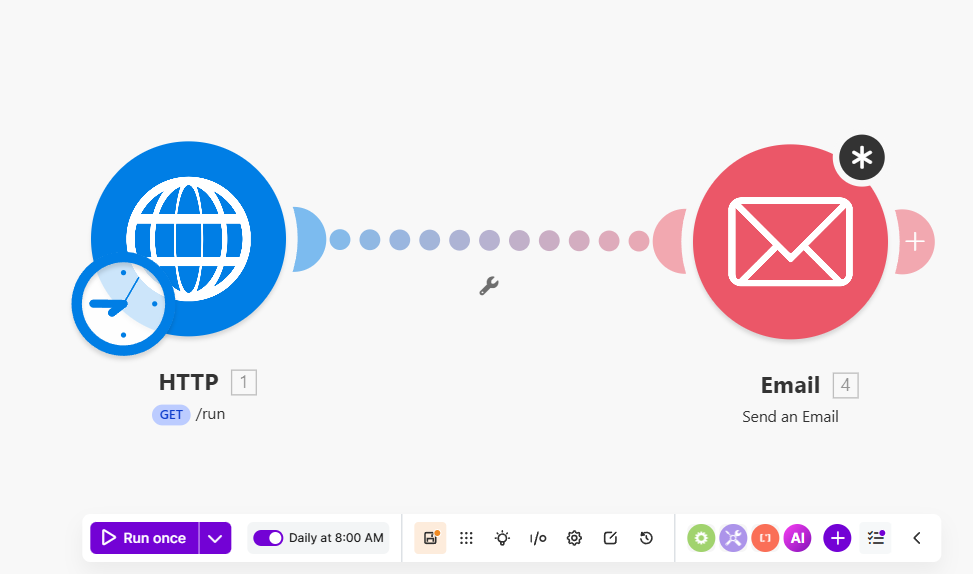
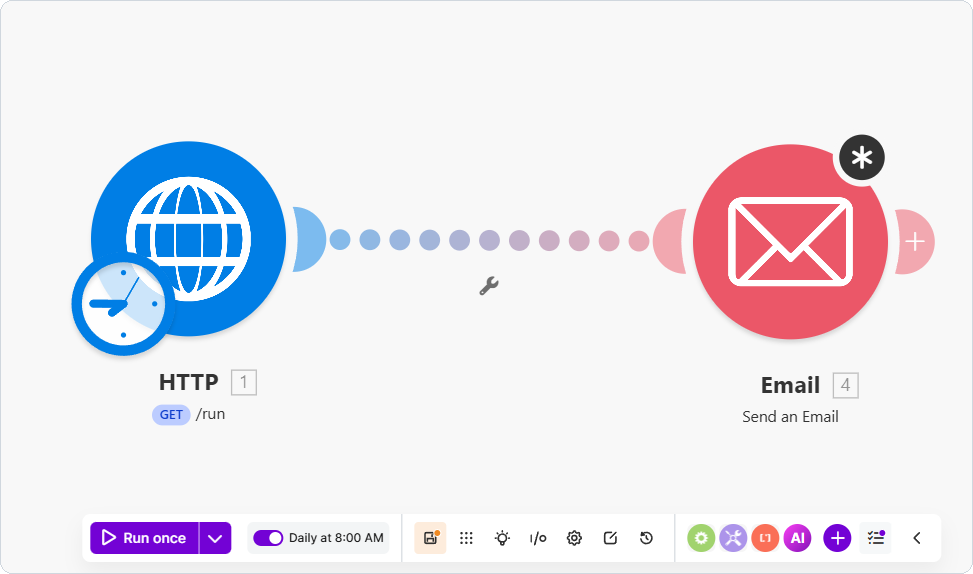
Restructure the README body into the canonical section order (#7)
* Add theme-aware banner, shields badges, and dashboard hero crop.

Replace the H1 with a picture banner, switch badges to shields.io
flat style, add a four-link nav and short lead, and crop the
dashboard screenshot to the first finding so the top of the page
is no longer the full-height capture.

* Restructure the README body into the canonical section order.

Move example output under the top block, fold JSON and the full
dashboard into details, drop mermaid style fills, and group
quickstart, tests, deploy, and layout so the page scans in
both GitHub themes.

---------

Changed region(s): [[0.9866, 0.9774, 1.0, 1.0]]

diff --git a/README.md b/README.md
@@ -25,94 +25,11 @@ Two Claude agents review a synthetic 31-store network and write a daily ops brie
 > [!NOTE]
 > The dashboard is rendering the illustrative example briefing below, not a live Claude run. A live-run capture will replace it.
 
-## The Problem
-
-Multi-site retail GMs are drowning in dashboards. Every store generates daily revenue, channel mix, category performance, and staffing data—but dashboards don't prioritise. By the time anyone notices a store has been underperforming for a week, it's late.
-
-This system solves that by:
-1. **Investigating autonomously** — an Analyst agent queries the data and identifies what matters
-2. **Writing for humans** — a Writer agent produces a 60-second scannable briefing
-3. **Running daily** — triggered by a webhook, delivers the briefing where leadership reads it
-
-## How it works
-
-```mermaid
-flowchart TB
-    subgraph Trigger
-        MAKE[Make.com Scheduler]
-        WEBHOOK[Webhook /run]
-    end
-
-    subgraph "Agent System"
-        subgraph "Analyst Agent"
-            ANALYST[Claude Sonnet 5.5]
-            TOOLS[(7 SQL Tools)]
-            ANALYST <-->|tool_use| TOOLS
-        end
-        
-        subgraph "Writer Agent"
-            WRITER[Claude Sonnet 5.5]
-        end
-        
-        ANALYST -->|Structured JSON findings| WRITER
-    end
-
-    subgraph "Data Layer"
-        SQLITE[(SQLite DB)]
-        TOOLS --> SQLITE
-    end
-
-    subgraph Output
-        DASHBOARD[Web Dashboard]
-        JSON[JSON API]
-        SLACK[Slack / Email]
-    end
-
-    MAKE --> WEBHOOK
-    WRITER --> DASHBOARD
-    WRITER --> JSON
-    JSON -.->|via Make.com| SLACK
-
-    style ANALYST fill:#f9f,stroke:#333
-    style WRITER fill:#9ff,stroke:#333
-```
-
-### Two-Agent Design
-
-| Agent | Role | Tools | Output |
-|-------|------|-------|--------|
-| **Analyst** | Investigation | 7 SQL-backed tools | Structured JSON: headline, 3-6 findings with severity/evidence/actions, network stats |
-| **Writer** | Communication | None | Markdown briefing formatted for 60-second scanning |
-
-The agents have separate concerns by design:
-- The **Analyst** decides *what matters*. It has access to all the data tools and must prioritise ruthlessly—if everything looks fine, it should say so with 1-2 findings.
-- The **Writer** decides *how to say it*. It has no tools, only the Analyst's findings. Its job is voice, formatting, and scannability.
-
-This separation means the Analyst can focus on investigation without worrying about prose, and the Writer can focus on communication without worrying about data access.
-
-Both agents call `claude-sonnet-5-5`, the current generally available Sonnet ID on the [Claude API](https://docs.anthropic.com/en/docs/about-claude/models/overview).
-
-## Tools
-
-The Analyst has 7 tools that query a SQLite database:
-
-| Tool | Purpose |
-|------|---------|
-| `list_stores` | Get all 31 stores with metadata (used to resolve names to IDs) |
-| `network_summary` | High-level view: total revenue vs target, breakdowns by tier/region/channel |
-| `store_performance` | Per-store actual vs target for a period, sorted worst-first |
-| `store_trend` | Daily series for one store—distinguishes noise from sustained issues |
-| `category_performance` | Revenue by product category with week-over-week comparison |
-| `top_products` | Top sellers by revenue, filterable by category |
-| `channel_comparison` | Sales by channel (in-store, kiosk, web, app, delivery) |
-
-Tool descriptions are carefully written to guide the agent's routing decisions. For example, `network_summary` is described as "usually the first call to make" and `store_trend` is described as useful "to investigate whether a store's underperformance is a one-off or a sustained trend."
-
 ## Example output
 
 The numbers below are last-7-day aggregates from the **seeded synthetic dataset** (week ending 30 April 2026). They match `network_summary`, `store_performance`, `store_trend`, and `category_performance` on `data/pos.db` after `python setup_data.py`. Currency is rounded to the nearest dollar (Westbridge actual is $11,969.50; Northgate actual is $6,661.50). The prose is an **illustrative Writer-style briefing**, not a live Claude transcript.
 
-### Briefing (Writer Output)
+### Briefing (Writer output)
 
 ```markdown
 *Daily Ops Briefing - Thursday 30 April 2026*
@@ -141,7 +58,8 @@ No action needed.
 27 of 31 stores above target. Network revenue $474,440 vs target $430,000 (+10.3%).
 ```
 
-### Analyst Findings (Structured JSON)
+<details>
+<summary><b>Analyst findings (structured JSON)</b></summary>
 
 ```json
 {
@@ -172,6 +90,93 @@ No action needed.
 }
 ```
 
+</details>
+
+<details>
+<summary><b>Full dashboard screenshot</b></summary>
+
+<p align="center">
+  <img alt="Dashboard with illustrative example briefing (not a live Claude run)" src="assets/dashboard.png" width="720">
+</p>
+
+</details>
+
+## Problem
+
+Multi-site retail GMs are drowning in dashboards. Every store generates daily revenue, channel mix, category performance, and staffing data—but dashboards don't prioritise. By the time anyone notices a store has been underperforming for a week, it's late.
+
+- An Analyst agent queries the data and decides what matters.
+- A Writer agent turns the findings into a briefing someone can read in a minute.
+- A webhook runs it daily and delivers it where people already read.
+
+## How it works
+
+```mermaid
+flowchart TB
+    subgraph Trigger
+        MAKE[Make.com Scheduler]
+        WEBHOOK[Webhook /run]
+    end
+
+    subgraph "Agent System"
+        subgraph "Analyst Agent"
+            ANALYST[Analyst · Claude Sonnet 5.5]
+            TOOLS[(7 SQL Tools)]
+            ANALYST <-->|tool_use| TOOLS
+        end
+        
+        subgraph "Writer Agent"
+            WRITER[Writer · Claude Sonnet 5.5]
+        end
+        
+        ANALYST -->|Structured JSON findings| WRITER
+    end
+
+    subgraph "Data Layer"
+        SQLITE[(SQLite DB)]
+        TOOLS --> SQLITE
+    end
+
+    subgraph Output
+        DASHBOARD[Web Dashboard]
+        JSON[JSON API]
+        SLACK[Slack / Email]
+    end
+
+    MAKE --> WEBHOOK
+    WRITER --> DASHBOARD
+    WRITER --> JSON
+    JSON -.->|via Make.com| SLACK
+```
+
+### Two agents
+
+| Agent | Role | Tools | Output |
+|-------|------|-------|--------|
+| **Analyst** | Investigation | 7 SQL-backed tools | Structured JSON: headline, 3-6 findings with severity/evidence/actions, network stats |
+| **Writer** | Communication | None | Markdown briefing formatted for 60-second scanning |
+
+- The **Analyst** decides *what matters*: it has the data tools and must prioritise (1–2 findings if all is well).
+- The **Writer** decides *how to say it*: no tools, only the Analyst's JSON.
+
+Both agents call `claude-sonnet-5-5`, the current generally available Sonnet ID on the [Claude API](https://docs.anthropic.com/en/docs/about-claude/models/overview).
+
+### Analyst tools
+
+The Analyst has 7 tools that query a SQLite database:
+
+| Tool | Purpose |
+|------|---------|
+| `list_stores` | Get all 31 stores with metadata (used to resolve names to IDs) |
+| `network_summary` | High-level view: total revenue vs target, breakdowns by tier/region/channel |
+| `store_performance` | Per-store actual vs target for a period, sorted worst-first |
+| `store_trend` | Daily series for one store—distinguishes noise from sustained issues |
+| `category_performance` | Revenue by product category with week-over-week comparison |
+| `top_products` | Top sellers by revenue, filterable by category |
+| `channel_comparison` | Sales by channel (in-store, kiosk, web, app, delivery) |
+
+Tool descriptions are carefully written to guide the agent's routing decisions. For example, `network_summary` is described as "usually the first call to make" and `store_trend` is described as useful "to investigate whether a store's underperformance is a one-off or a sustained trend."
+
 ## Quickstart
 
 ### Prerequisites
@@ -179,34 +184,28 @@ No action needed.
 - Python 3.11+
 - [Anthropic API key](https://console.anthropic.com/)
 
-### Local Development
+### Local development
 
 ```bash
-# Clone the repository
 git clone https://github.com/SmitHunter/Daily-Ops-Briefing.git
 cd Daily-Ops-Briefing
 
-# Create virtual environment
 python -m venv .venv
 source .venv/bin/activate  # or `.venv\Scripts\activate` on Windows
 
-# Install dependencies
 pip install -r requirements.txt
 
-# Build the synthetic dataset (one-time)
 python setup_data.py
 
-# Set your API key
 export ANTHROPIC_API_KEY=sk-ant-api03-your-key-here
 
-# Run a one-shot briefing (CLI)
 python agents.py
 
-# Or start the web server
 python app.py  # Serves on http://localhost:8080
 ```
 
-### Environment Variables
+<details>
+<summary><b>Environment variables</b></summary>
 
 Copy `.env.example` to `.env` and configure:
 
@@ -221,25 +220,23 @@ BRIEFING_TOKEN=your-secret-token
 PORT=8080
 ```
 
-### Running Tests
+</details>
+
+## Tests and output checks
 
 ```bash
-# Install dev dependencies
 pip install -e ".[dev]"
 
-# Run tests (no API key needed — Claude is mocked)
 pytest
 
-# Run with coverage
 pytest --cov=. --cov-report=term-missing
 
-# Lint, format, and type-check
 ruff check .
 ruff format --check .
 mypy agents.py tools.py app.py
 ```
 
-## How output quality is checked
+### Output validators
 
 `tests/test_eval.py` defines validators for both agent outputs. They are real checks with failing cases, not a hardcoded happy-path fixture. Pytest runs them in CI (Claude is mocked). The same functions can be pointed at a live Analyst/Writer payload later.
 
@@ -261,11 +258,11 @@ mypy agents.py tools.py app.py
 - network footer mentions stores or target
 - raw JSON and placeholder tokens (`TODO`, `FIXME`, …) are rejected
 
-## Deployment
+## Deploy
 
 The system is designed for Render's free tier but works on any Python hosting.
 
-### Render (Recommended)
+### Render
 
 1. Fork this repository
 2. Create a new Web Service on [Render](https://render.com)
@@ -275,15 +272,17 @@ The system is designed for Render's free tier but works on any Python hosting.
 
 The free tier sleeps after 15 minutes of inactivity. First request after sleep takes ~30 seconds to wake.
 
-### Automation with Make.com
+### Make.com
 
 The screenshot is a Make.com scenario: **Daily at 8:00 AM**, HTTP **GET `/run`**, then **Email**.
 
 GET `/run` is a convenience alias for POST `/run`; both trigger a briefing. If a later step needs the markdown rather than just kicking off a run, read `GET /latest.json`.
 
-![Make.com scenario: daily 8:00 AM GET /run, then Email](assets/makecom.png)
+<p align="center">
+  <img alt="Make.com scenario: daily 8:00 AM GET /run, then Email" src="assets/makecom.png" width="560">
+</p>
 
-## API Endpoints
+### Endpoints
 
 | Method | Path | Description |
 |--------|------|-------------|
@@ -295,45 +294,19 @@ GET `/run` is a convenience alias for POST `/run`; both trigger a briefing. If a
 
 If `BRIEFING_TOKEN` is set, `/`, `/run`, and `/latest.json` require `?key=TOKEN` or an `X-Access-Token: TOKEN` header. `/health` stays public so uptime checks do not need the token.
 
-## Project Structure
-
-```
-.
-├── agents.py                 # Analyst + Writer agents, orchestration
-├── tools.py                  # 7 tool functions + Claude schemas
-├── app.py                    # Flask service (dashboard + API)
-├── setup_data.py             # Data pipeline runner
-├── generate_transactions.py  # Synthetic transaction generator
-├── build_products.py         # Invented product catalogue
-├── build_db.py               # JSON → SQLite loader
-├── build_stores.py           # 31-store network definition
-├── data/
-│   ├── stores.json           # Store metadata (committed)
-│   ├── products.json         # Synthetic catalogue (committed)
-│   └── pos.db                # Built at deploy time (gitignored)
-├── tests/                    # Pytest suite with mocked Claude
-│   └── test_eval.py          # Analyst/Writer output validators
-├── assets/
-│   └── makecom.png           # Make.com GET /run → Email scenario
-├── .github/workflows/ci.yml  # GitHub Actions CI
-├── pyproject.toml            # Project config, ruff, pytest
-├── requirements.txt          # Production dependencies
-└── render.yaml               # Render deployment config
-```
-
-## Design Decisions
+## Design decisions
 
 ### Why two agents instead of one?
 
 A single agent could do both investigation and writing, but separation has benefits:
-- **Clearer system prompts** — Each agent has one job with focused instructions
-- **Easier debugging** — The Analyst's JSON output is inspectable before the Writer transforms it
-- **Composability** — The Analyst findings could feed multiple outputs (Slack, email, PDF) without re-running analysis
-- **Different failure modes** — If the Writer produces bad prose, the Analyst findings are still valid
+- **Clearer system prompts.** Each agent has one job with focused instructions
+- **Easier debugging.** The Analyst's JSON output is inspectable before the Writer transforms it
+- **Composability.** The Analyst findings could feed multiple outputs (Slack, email, PDF) without re-running analysis
+- **Different failure modes.** If the Writer produces bad prose, the Analyst findings are still valid
 
 ### Why tool descriptions matter more than prompt tuning
 
-Early iterations spent time tuning the Analyst's system prompt. The real breakthrough came from rewriting tool descriptions to explain *when* each tool fits in the workflow:
+In development, rewriting tool descriptions to say *when* each tool fits improved routing more than system-prompt tuning did:
 - "Usually the first call to make" (network_summary)
 - "Use to investigate whether underperformance is a one-off or a sustained trend" (store_trend)
 - "Use to drill into category-level findings" (top_products)
@@ -363,6 +336,40 @@ The full system would query a data warehouse, but SQLite:
 - **Each run costs a Claude API sequence.** The Analyst may loop up to 12 times (`max_tokens=4096` per call, with tool use). The Writer is one further call (`max_tokens=2048`). Both use `claude-sonnet-5-5`. This repo does not log token usage or dollar cost.
 - **GET `/run` is a convenience alias for POST.** It triggers a new briefing (not idempotent). The Make.com screenshot uses GET because that is easy to wire in an HTTP module.
 - **Render free tier sleeps after 15 minutes idle.** The first request after sleep takes ~30 seconds to wake. The latest briefing is stored in process memory, so a sleep or restart clears it until the next `/run`.
+
+## Project layout
+
+<details>
+<summary><b>Repository tree</b></summary>
+
+```text
+.
+├── agents.py                 # Analyst + Writer agents, orchestration
+├── tools.py                  # 7 tool functions + Claude schemas
+├── app.py                    # Flask service (dashboard + API)
+├── setup_data.py             # Data pipeline runner
+├── generate_transactions.py  # Synthetic transaction generator
+├── build_products.py         # Invented product catalogue
+├── build_db.py               # JSON → SQLite loader
+├── build_stores.py           # 31-store network definition
+├── data/
+│   ├── stores.json           # Store metadata (committed)
+│   ├── products.json         # Synthetic catalogue (committed)
+│   └── pos.db                # Built at deploy time (gitignored)
+├── tests/                    # Pytest suite with mocked Claude
+│   └── test_eval.py          # Analyst/Writer output validators
+├── assets/
+│   ├── brand/                # Light/dark README banners
+│   ├── dashboard.png         # Full illustrative dashboard capture
+│   ├── dashboard-hero.png    # Crop below the first finding card
+│   └── makecom.png           # Make.com GET /run → Email scenario
+├── .github/workflows/ci.yml  # GitHub Actions CI
+├── pyproject.toml            # Project config, ruff, pytest
+├── requirements.txt          # Production dependencies
+└── render.yaml               # Render deployment config
+```
+
+</details>
 
 ## License
 
